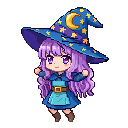
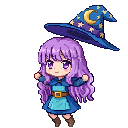
Player Jump & collision

diff --git a/src/entity/Player.java b/src/entity/Player.java
@@ -8,8 +8,6 @@ import core.GamePanel;
 import core.KeyHandler;
 
 public class Player extends Entity {
-
-    GamePanel gp;
     KeyHandler keyH;
 
     private int gravity = 3;
@@ -23,13 +21,14 @@ public class Player extends Entity {
 
     private BufferedImage[] rightImages = new BufferedImage[5];
     private BufferedImage[] leftImages = new BufferedImage[5];
-    private BufferedImage[] standingImages = new BufferedImage[2];
-    private BufferedImage[] defenseOnImage = new BufferedImage[5];
+    private BufferedImage standingImages;
+    private BufferedImage defenseOnImage;
     private BufferedImage[] jumpRightImages = new BufferedImage[5];
     private BufferedImage[] jumpLeftImages = new BufferedImage[5];
-
+    private BufferedImage[] fallingLeftImages = new BufferedImage[5];
+    private BufferedImage[] fallingRightImages = new BufferedImage[5];
     public Player(GamePanel gp, KeyHandler keyH){
-        this.gp = gp;
+        super(gp);
         this.keyH = keyH;
         this.screenX = gp.screenWidth / 2 - (gp.tileSize / 2);
         this.screenY = gp.screenHeight / 2 - (gp.tileSize / 2);
@@ -53,26 +52,38 @@ public class Player extends Entity {
             for(int i = 0; i < 5; i++) {
                 rightImages[i] = ImageIO.read(getClass().getResourceAsStream("/res/image/player/right/" + (i+1) + ".png"));
                 leftImages[i] = ImageIO.read(getClass().getResourceAsStream("/res/image/player/left/" + (i+1) + ".png"));
-                defenseOnImage[i] = ImageIO.read(getClass().getResourceAsStream("/res/image/player/defenseOn/" + (i+1) + ".png"));
                 jumpRightImages[i] = ImageIO.read(getClass().getResourceAsStream("/res/image/player/jumpRight/" + (i+1) + ".png"));
                 jumpLeftImages[i] = ImageIO.read(getClass().getResourceAsStream("/res/image/player/jumpLeft/" + (i+1) + ".png"));
+                fallingRightImages[i] = ImageIO.read(getClass().getResourceAsStream("/res/image/player/fallingRight/" + (i+1) + ".png"));
+                fallingLeftImages[i] = ImageIO.read(getClass().getResourceAsStream("/res/image/player/fallingLeft/" + (i+1) + ".png"));
             }
-            for(int i = 0; i < 2; i++) {
-                standingImages[i] = ImageIO.read(getClass().getResourceAsStream("/res/image/player/standing/" + (i+1) + ".png"));
-            }
+            defenseOnImage = ImageIO.read(getClass().getResourceAsStream("/res/image/player/defenseOn/defense.png"));
+
+            standingImages = ImageIO.read(getClass().getResourceAsStream("/res/image/player/standing/standing.png"));
         } catch(Exception e) {
             e.printStackTrace();
         }
     }
 
     public void update() {
-        if(keyH.leftPressed) {
-            directionX = "left";
-        } else if(keyH.rightPressed) {
-            directionX = "right";
-        } else if(!keyH.leftPressed && !keyH.rightPressed) {
+        // Check defense first
+        if(keyH.downPressed && !Jumping && !Falling) {
+            defenseOn = true;
             directionX = "none";
+        } else {
+            defenseOn = false;
         }
+
+        if(!defenseOn){
+            if(keyH.leftPressed) {
+                directionX = "left";
+            } else if(keyH.rightPressed) {
+                directionX = "right";
+            } else if(!keyH.leftPressed && !keyH.rightPressed) {
+                directionX = "none";
+            }
+        }
+        
 
         collisionOn = false;
         gp.cChecker.checkTile(this);
@@ -80,13 +91,25 @@ public class Player extends Entity {
             if(directionX.equals("left")) worldX -= speed;
             if(directionX.equals("right")) worldX += speed;
         }
+        gp.cChecker.checkObject(this, true);
 
+        // Check monster collision
+        int monsterIndex = gp.cChecker.checkEntity(this, gp.monsters);
+        contactMonster(monsterIndex);
+        if (invincible){
+            invincibleCounter++;
+            if (invincibleCounter > 60){
+                invincible = false;
+                invincibleCounter = 0;
+            }
+        }
+
+        // gravity and jumping mechanics
         if(keyH.upPressed && !Jumping && !Falling) {
             Jumping = true;
             directionY = "up";
             currentJumpSpeed = jumpPower;
         }
-
         if(Jumping){
             worldY -= currentJumpSpeed;
             currentJumpSpeed -= gravity;
@@ -104,7 +127,7 @@ public class Player extends Entity {
             directionY = "none";
         }
 
-        // 4. ANIMATION LOGIC
+        // animation
         if(directionX.equals("none")) {
             spriteNum = 1;
         }else {
@@ -114,7 +137,7 @@ public class Player extends Entity {
                     spriteNum = 2;
                 } else if(spriteNum == 2) {
                     spriteNum = 3;
-                } else if(spriteNum == 3 && !defenseOn) {
+                } else if(spriteNum == 3) {
                     spriteNum = 4;
                 } else if(spriteNum == 4) {
                     spriteNum = 5;
@@ -129,34 +152,44 @@ public class Player extends Entity {
     public void draw(Graphics g2) {
         BufferedImage image = null;
         if(!Falling && !Jumping) {
-            if (directionX.equals("right")) {
+            if (defenseOn) {
+                image = defenseOnImage;
+            } else if (directionX.equals("right")) {
                 image = rightImages[spriteNum - 1];
             } else if (directionX.equals("left")) {
                 image = leftImages[spriteNum - 1];
             } else if (directionX.equals("none")) {
-                image = standingImages[0];
-            } else if (defenseOn) {
-                image = defenseOnImage[spriteNum - 1];
+                image = standingImages;
             }
+        }
         else if (Jumping) {
             if (directionX.equals("right")) {
-                image = rightImages[2];
+                image = jumpRightImages[spriteNum - 1];
             } else if (directionX.equals("left")) {
-                image = leftImages[2];
+                image = jumpLeftImages[spriteNum - 1];
             } else {
-                image = standingImages[1];
+                image = standingImages;
             }
         } else if (Falling) {
             if (directionX.equals("right")) {
-                image = rightImages[3];
+                image = fallingRightImages[spriteNum - 1];
             } else if (directionX.equals("left")) {
-                image = leftImages[3];
+                image = fallingLeftImages[spriteNum - 1];
             } else {
-                image = standingImages[1];
+                image = standingImages;
             }
-        }
-            
+        } 
         g2.drawImage(image, screenX, screenY, gp.tileSize, gp.tileSize, null);
+    }
+
+
+    void contactMonster(int i) {
+        if(i != 999) {
+            if(defenseOn == false && invincible == false) {
+                health -= gp.monsters[i].attack;
+                if(health < 0) health = 0;
+                invincible = true;
+            }
         }
     }
 

diff --git a/src/core/CollisionChecker.java b/src/core/CollisionChecker.java
@@ -126,9 +126,59 @@ public class CollisionChecker {
         return index;
     }
 
-    public void checkMob(Entity entity){
+    public int checkEntity(Entity entity, Entity[] target){
+        int index = 999;
+        for(int i = 0; i < target.length; i++){
+            if(target[i] != null){
+                entity.solidArea.x = entity.worldX + entity.solidArea.x;
+                entity.solidArea.y = entity.worldY + entity.solidArea.y;
+
+                target[i].solidArea.x = target[i].worldX + target[i].solidArea.x;
+                target[i].solidArea.y = target[i].worldY + target[i].solidArea.y;
+
+                switch(entity.getDirectionX()){
+                    case "left":
+                        entity.solidArea.x -= entity.speed;
+                        break;
+                    case "right":
+                        entity.solidArea.x += entity.speed;
+                        
+                        break;
+                }
+                if(entity.solidArea.intersects(target[i].solidArea)){
+                    entity.collisionOn = true;
+                    index = i;
+                }
+                entity.solidArea.x = entity.solidAreaDefaultX;
+                entity.solidArea.y = entity.solidAreaDefaultY;
+                target[i].solidArea.x = target[i].solidAreaDefaultX;
+                target[i].solidArea.y = target[i].solidAreaDefaultY;
+            }
+        }
+        return index;
     }
 
     public void checkPlayer(Entity entity){
+        entity.solidArea.x = entity.worldX + entity.solidArea.x;
+        entity.solidArea.y = entity.worldY + entity.solidArea.y;
+
+        gp.player.solidArea.x = gp.player.worldX + gp.player.solidArea.x;
+        gp.player.solidArea.y = gp.player.worldY + gp.player.solidArea.y;
+
+        switch(entity.getDirectionX()){
+            case "left":
+                entity.solidArea.x -= entity.speed;
+                break;
+            case "right":
+                entity.solidArea.x += entity.speed;
+                break;
+        }
+        if(entity.solidArea.intersects(gp.player.solidArea)){
+            entity.collisionOn = true;
+        }
+        entity.solidArea.x = entity.solidAreaDefaultX;
+        entity.solidArea.y = entity.solidAreaDefaultY;
+        gp.player.solidArea.x = gp.player.solidAreaDefaultX;
+        gp.player.solidArea.y = gp.player.solidAreaDefaultY;
     }
 }

diff --git a/src/entity/Entity.java b/src/entity/Entity.java
@@ -26,10 +26,16 @@ public class Entity {
     protected int spriteNum = 1;
 
     public boolean collisionOn = false;
+    public boolean invincible = false;
+    public int invincibleCounter = 0;
     public Rectangle solidArea = new Rectangle(8,16,32,32);
     public int solidAreaDefaultX = solidArea.x;
     public int solidAreaDefaultY = solidArea.y;
+    public void setAction(){}
 
+    public Entity(GamePanel gp){
+        this.gp = gp;
+    }
     public void isFalling(boolean Falling){
         this.Falling = Falling;
     }

diff --git a/src/mob/Golem.java b/src/mob/Golem.java
@@ -21,7 +21,7 @@ public class Golem extends Entity{
     private int skillDuration = 0;
 
     public Golem(GamePanel gp){
-        this.gp = gp;
+        super(gp);
         setImage();
         setDefaultValues();
     }
@@ -64,6 +64,8 @@ public class Golem extends Entity{
                 }
             }
         }
+        gp.cChecker.checkPlayer(this);
+        gp.cChecker.checkObject(this, false);
     
         spriteCounter++;
         if(spriteCounter > 12 && skillOn == false){
